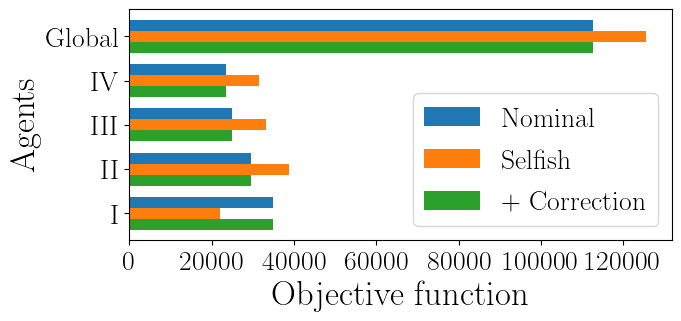
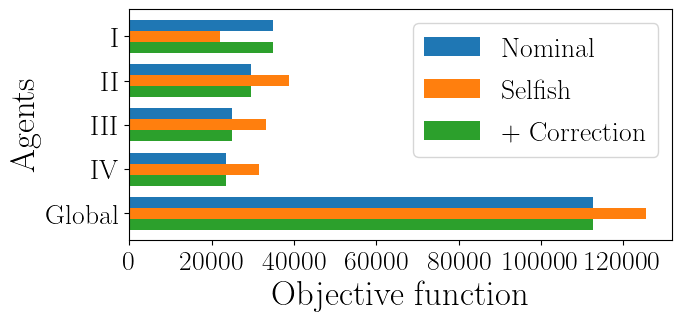
correct tikz errors update figures

diff --git a/code/generate_figures.py b/code/generate_figures.py
@@ -137,9 +137,10 @@ print("Global &", round(nominal_global,2),"(",nominal_global/nominal_global, ")&
 
 fig, axs = plt.subplots(1, 1,figsize=(7, 3),facecolor=(.0, .0, .0, .0))
 
-nominal_bar=(round(nominal_I,2),round(nominal_II,2),round(nominal_III,2),round(nominal_IV,2),round(nominal_global,2))
-selfish_bar=(round(selfish_I,2),round(selfish_II,2),round(selfish_III,2),round(selfish_IV,2),round(selfish_global,2))
-corrected_bar=(round(corrected_I,2),round(corrected_II,2),round(corrected_III,2),round(corrected_IV,2),round(corrected_global,2))
+nominal_bar=(round(nominal_global,2),round(nominal_IV,2),round(nominal_III,2),round(nominal_II,2),round(nominal_I,2))
+selfish_bar=(round(selfish_global,2),round(selfish_IV,2),round(selfish_III,2),round(selfish_II,2),round(selfish_I,2))
+corrected_bar=(round(corrected_global,2),round(corrected_IV,2),round(corrected_III,2),round(corrected_II,2),round(corrected_I,2))
+labels=[ 'Global','IV', 'III', 'II', 'I']
 
 barHeight=0.25
 br_nominal = np.arange(5)
@@ -150,7 +151,7 @@ plt.barh(br_nominal, nominal_bar, height=barHeight,label='Nominal') # nominal
 plt.barh(br_selfish, selfish_bar, height=barHeight,label='Selfish') # nominal
 plt.barh(br_corrected, corrected_bar, height=barHeight,label='+ Correction') # nominal
 plt.yticks([r - barHeight for r in range(5)],
-           ['I', 'II', 'III', 'IV', 'Global'],fontsize=20)
+           labels,fontsize=20)
 plt.xticks(fontsize = 20)
 
 plt.ylabel('Agents', fontweight ='bold', fontsize = 25)

diff --git a/poster/poster.tex b/poster/poster.tex
@@ -191,7 +191,7 @@
             \node[
             anchor=north east,
             fill=white,
-            draw=rectangle,
+            rectangle,
             minimum width=2cm,
             minimum height=2cm
             ] at ($(block1.north east)$) {\bf Agent \large 1};
@@ -205,7 +205,7 @@
             \node[draw,
             mpcSmall,
             right=0.5cm of mult,
-            text align=center,
+            align=center,
             minimum width=12cm,
             minimum height=8.cm,
             ] (blockM) {
@@ -228,7 +228,7 @@
             \node[
             anchor=north east,
             fill=white,
-            draw=rectangle,
+            rectangle,
             minimum width=2cm,
             minimum height=2cm
             ] at ($(blockM.north east)$) {\bf Agent \large M};
@@ -242,7 +242,7 @@
             \node[
             anchor=north east,
             fill=white,
-            draw=rectangle,
+            rectangle,
             minimum width=2cm,
             minimum height=2cm
             ] at ($(coordinator.north east)$) {\bf \large Coordinator};
